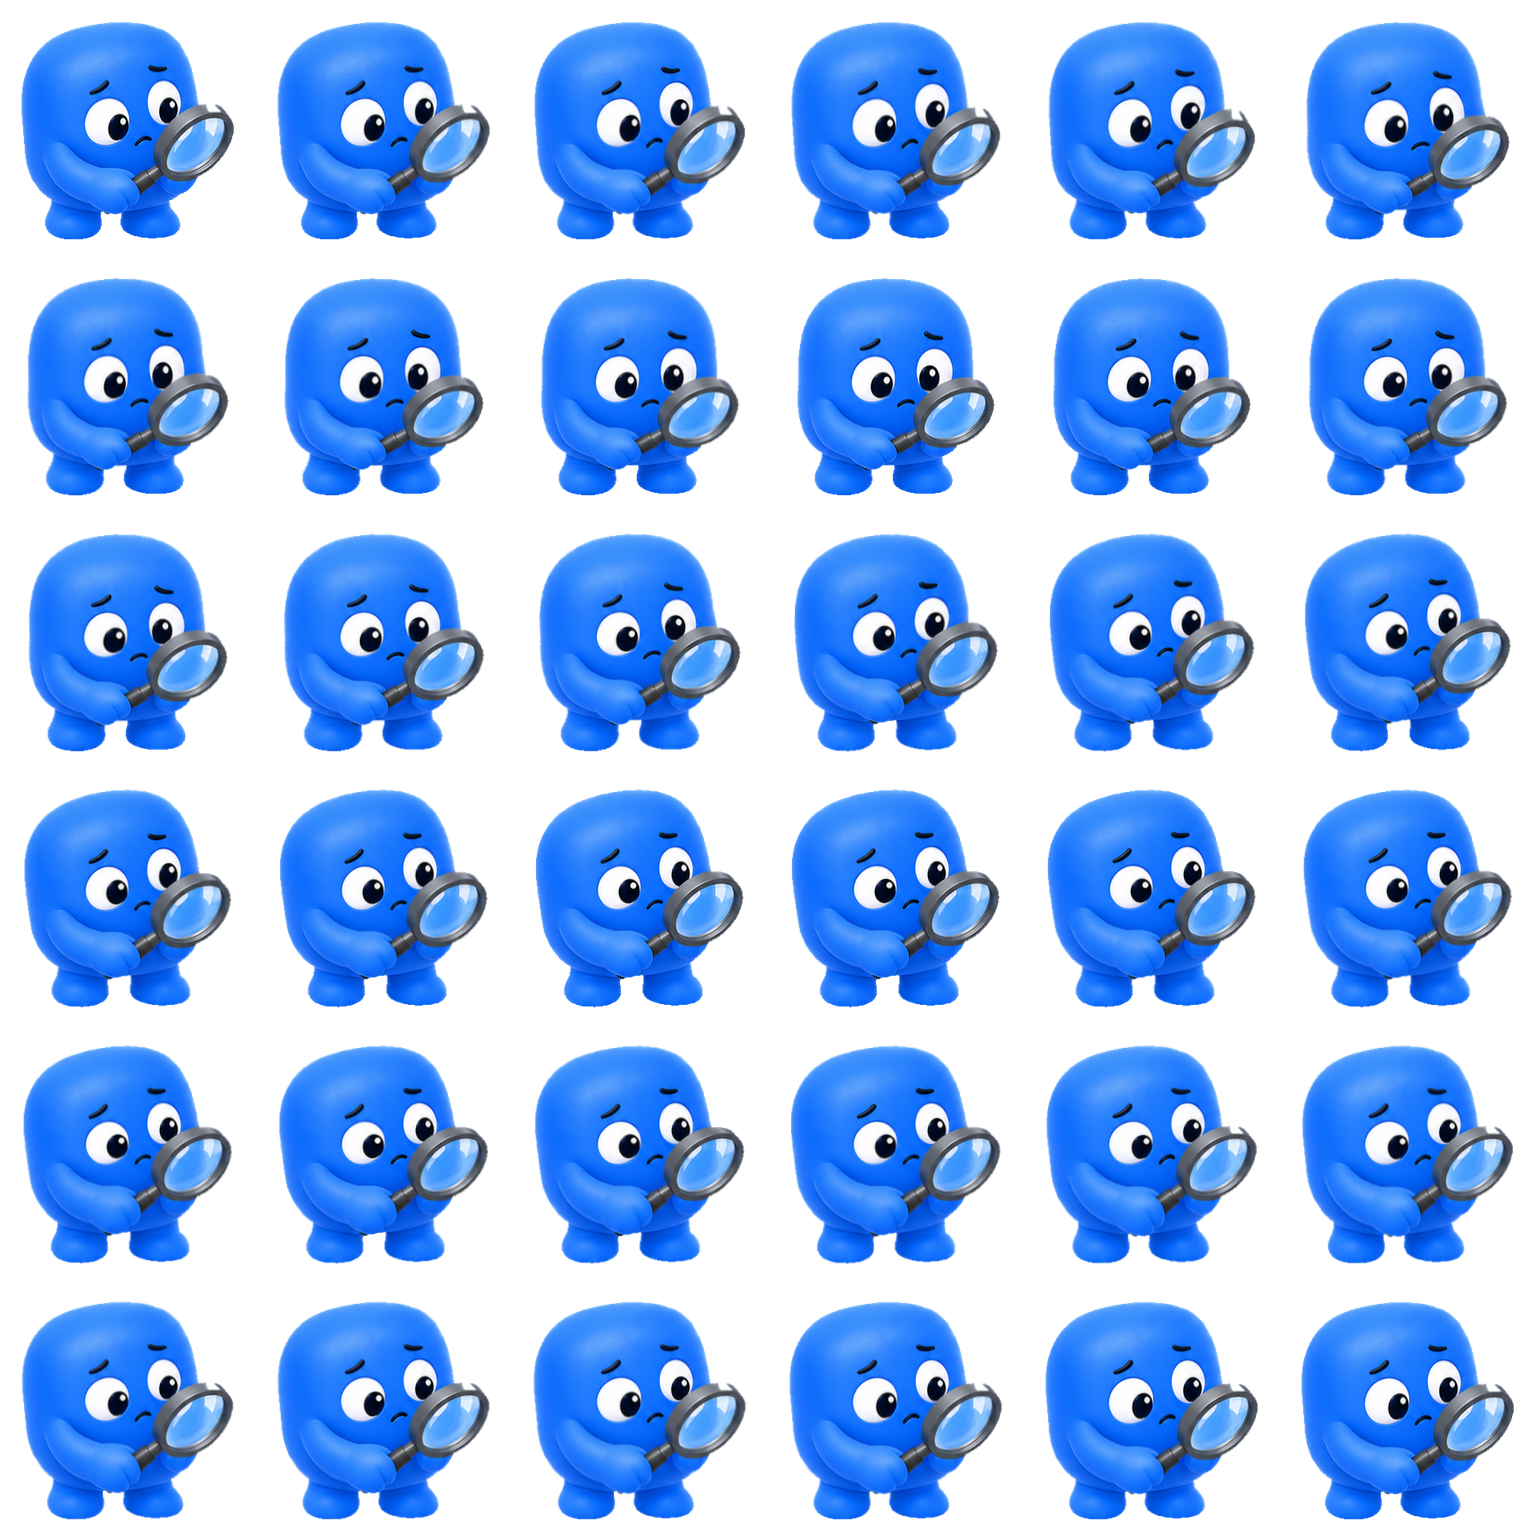
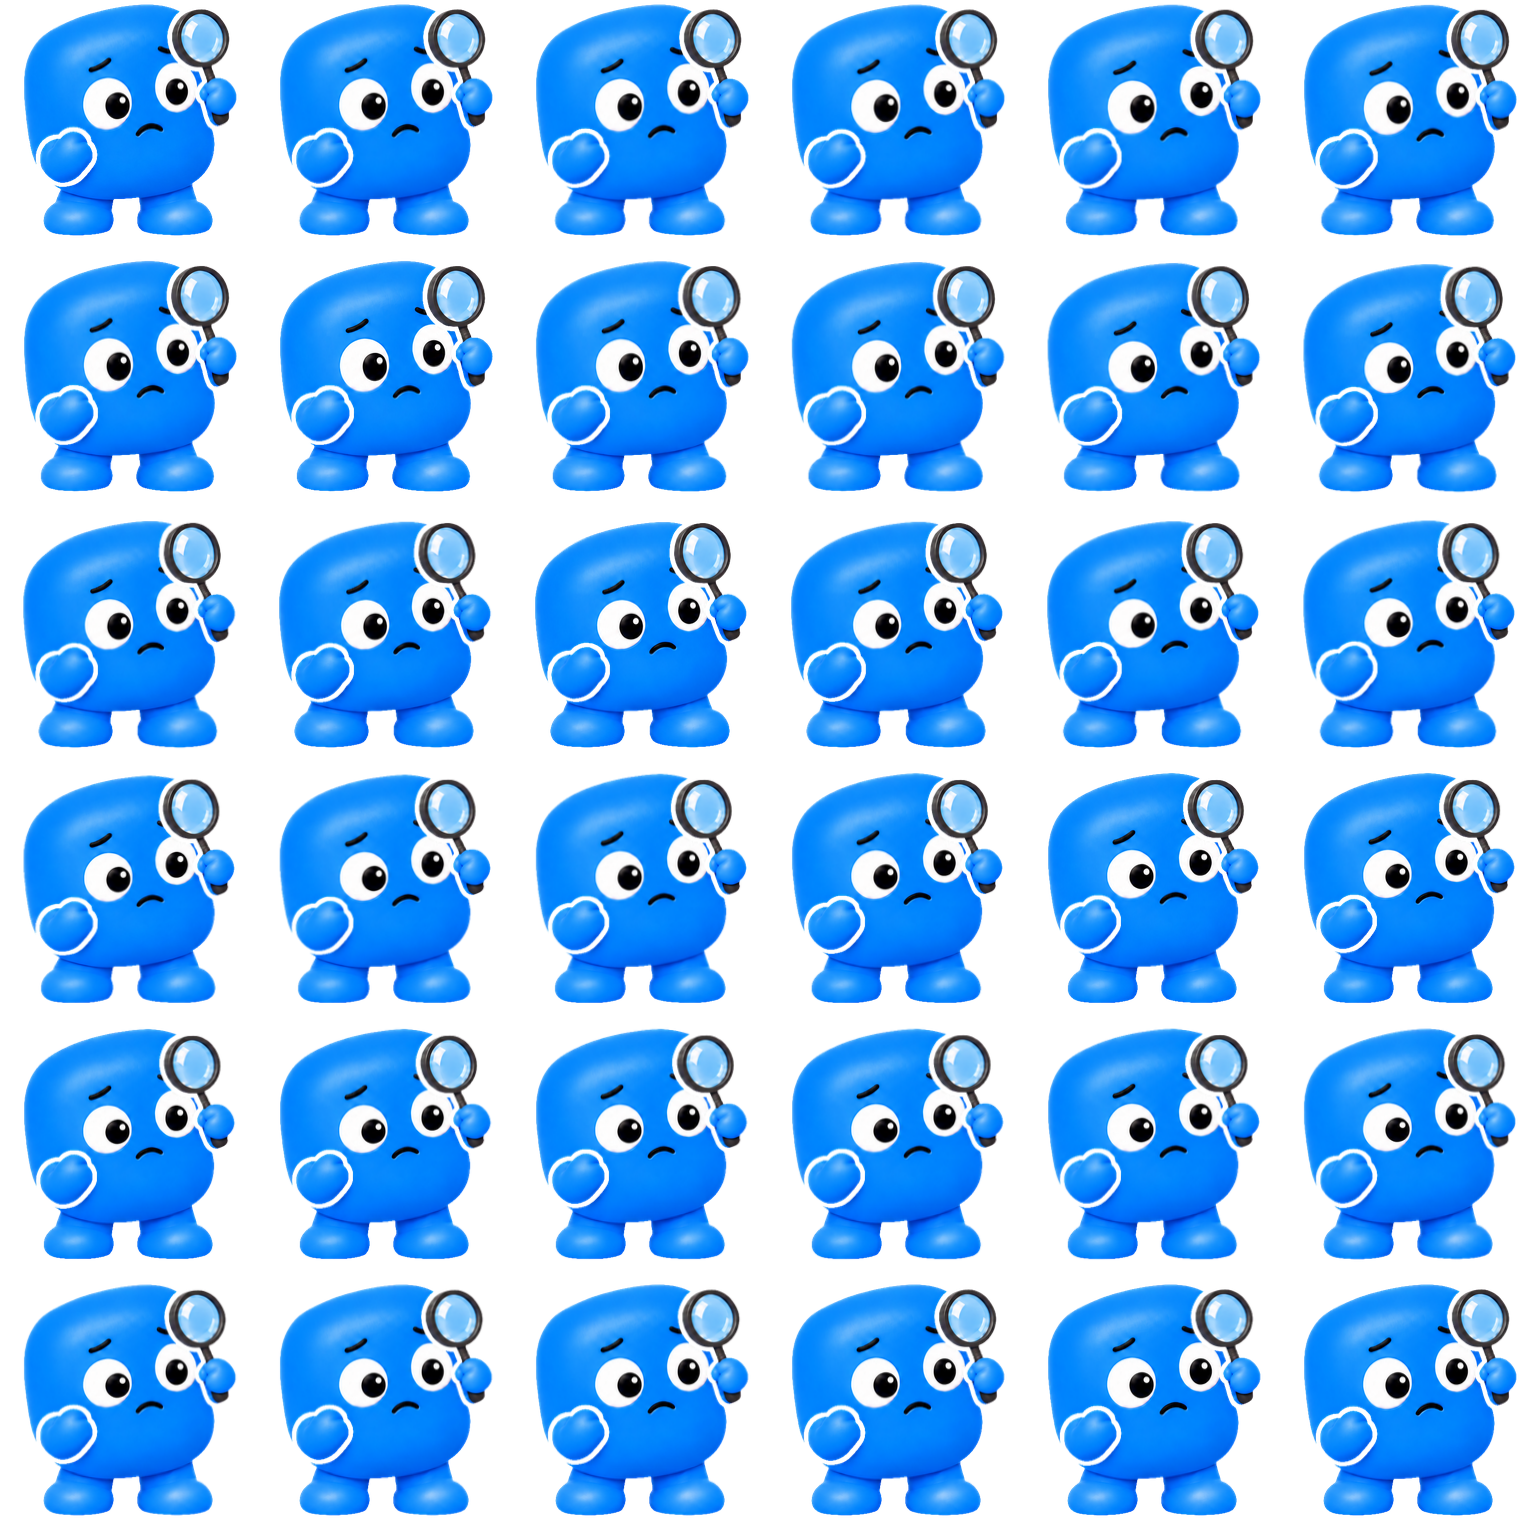
Open the concern loop out with its fourth pose, and stop a cell leaking
The corrected concern sheet measures 1.15 against the 1.4 framing gate, so
concern now builds from its own artwork and a four-pose cycle instead of
the three approved keys. The fourth original pose was excluded because it
changed grip and mouth shape mid-loop; the new sheet holds one expression
throughout, so nothing has to be inferred.

Three poses could cycle, but the loop passed close to itself doing it.
Measured as "how far is each frame from the nearest frame that is not its
own neighbour", in units of one frame-to-frame step:

  before  2.09 steps  (worst 1.09)
  after   2.25 steps  (worst 1.64)

The median barely moves, which is right — three poses were already a
cycle. What the fourth pose buys is the worst case, up by half: the point
where the old loop came nearest to retracing itself.

The sheet also exposed a bug in the crop. The window reaches above the
head and below the feet by whatever the sheet's scale demands, and on a
sheet packed as tightly as this one that is far enough to catch the row
below: the first cell came out with a five-pixel sliver of the second
row's head along its bottom edge, which optical flow then spent the whole
cycle fading in and out. Each crop is now masked to the band its pose was
found in. A pose found in a band lies entirely inside it, so the mask
cannot touch the pose itself — success, scan and greeting rebuild
byte-for-byte identical.

Both new sheets turn out to be bound by height rather than width: the
[…]

diff --git a/scripts/mascot_keys.py b/scripts/mascot_keys.py
@@ -131,10 +131,25 @@ def _crop(keyed, pose, window, cell):
 
     `Image.crop` pads past the sheet's edges with transparency, which is what a
     pose standing near the border needs.
+
+    The window reaches below the feet and above the head by whatever the sheet's
+    scale demands, which on a tightly packed sheet is far enough to catch the
+    row above or below. So the crop is masked to the band the pose was found
+    in: a pose found in a band lies entirely inside it, which makes the mask
+    free of risk to the pose itself and fatal only to a neighbour leaking in.
+    Without it the `concern` sheet puts a five-pixel sliver of the second row's
+    head along the bottom edge of the first row's first cell, and optical flow
+    then spends the whole cycle fading it in and out.
     """
     left = int(round(pose['centre'] - window / 2))
     top = int(round(pose['ground'] + window * (1 - FEET_FRACTION) - window))
     cropped = keyed.crop((left, top, left + window, top + window))
+    above, below = pose['band'][0] - top, pose['band'][1] - top
+    if above > 0 or below < window:
+        alpha = np.asarray(cropped.getchannel('A')).copy()
+        alpha[:max(0, above)] = 0
+        alpha[max(0, min(window, below)):] = 0
+        cropped.putalpha(Image.fromarray(alpha))
     return cropped.resize((cell, cell), Image.Resampling.LANCZOS)
 
 
@@ -185,6 +200,7 @@ def load_sheet(path, cell, expected=None):
                 'centre': centre,
                 'ground': top + ground,
                 'top': top + highest,
+                'band': (top, bottom),
                 'bbox': x1 - x0,
                 'span': (x0, x1),
             })

diff --git a/assets/mascot/3d/README.md b/assets/mascot/3d/README.md
@@ -15,10 +15,10 @@ The opaque source draft and old preview are not referenced by the application.
 Reference: user-provided `original_app_mascot.png`.
 Generated using the built-in image generation tool on 2026-09-10.
 
-## New keyframe sheets: one landed, three pending
+## New keyframe sheets: two landed, two pending
 
-`source/success-keyframes.png` is in use. The other three
-(`scan-`, `greeting-`, `concern-keyframes.png`) are measured and rejected, so
+`source/success-keyframes.png` and `concern-keyframes.png` are in use. The
+other two (`scan-` and `greeting-keyframes.png`) are measured and rejected, so
 those states keep the approved 320px keys until replacements arrive. Each state
 picks its own source at build time, so sheets can land one at a time.
 
@@ -31,13 +31,13 @@ gate; `sheet_ratio()` measures a sheet against it without failing the build.
 
 | sheet | silhouette / torso | in use |
 | --- | --- | --- |
-| approved 320px art | 1.03-1.06 | the three fallbacks |
+| approved 320px art | 1.03-1.06 | the two fallbacks |
 | `success` (corrected) | 1.14 | yes |
-| `concern` | 1.57 | no |
+| `concern` (corrected) | 1.15 | yes |
 | `scan` | 1.53 | no |
 | `greeting` | 1.58 | no |
 
-The three rejected sheets fail the same way the first `success` sheet did: the
+The two rejected sheets fail the same way the first `success` sheet did: the
 arms are extended too far, which both pushes the magnifier out of the cell and
 shrinks the body to about 35% less than every other state once framed so
 nothing clips. What a regeneration needs, beyond the existing brief: **the
@@ -45,7 +45,16 @@ magnifier and both hands stay close to the body, so the full silhouette is no
 wider than about 1.1x the torso**, and the torso fills roughly three quarters
 of the cell, as it does in `source/escalation-keyframes.png`. Pose variety has
 to come from the body leaning, crouching and rising rather than from the arms
-reaching out. The corrected `success` sheet is the worked example.
+reaching out. The corrected `success` and `concern` sheets are the worked
+examples.
+
+Both corrected sheets are nevertheless bound by height rather than by width:
+the raised magnifier reaches further above the head than a window sized to the
+shipping torso would allow, so the window widens to avoid clipping it and the
+character lands at 190-196px rather than 213. That is the right trade — a
+magnifier cut off at the cell edge is worse than a character 9% small — but a
+sheet that keeps the magnifier about 10% lower would render at full size. Worth
+saying in the brief for the two that remain.
 
 `scripts/mascot_keys.py` keys the green, finds each pose by the empty columns
 around it, and crops on the feet rather than on the nominal grid — needed
@@ -82,12 +91,14 @@ that pose on wrap. In the first motion-only revision, scan follows `[0,1,2,3,0]`
 with budgets `[8,7,6,15]`; greeting `[1,2,3,1]` with `[13,11,12]`; concern
 `[0,1,2,0]` with `[9,11,16]`; worried/alarmed `[0,1,2,0]` with `[9,11,16]`.
 Concern's fourth original pose changes grip and mouth shape, so it is excluded.
-Success has since moved to `source/success-keyframes.png` and a genuine
-four-pose cycle, `[0,1,2,3,0]` with `[7,8,8,13]`. It was the one state the
-approved art could not cycle: only two of its four poses shared an
-expression, so `[0,1,0]` with `[12,24]` went out to one pose and came back
-the same way — the bounce this whole upgrade exists to remove. The other
-three states still run the budgets above from the approved keys.
+Success and concern have since moved to their own keyframe sheets and to
+four-pose cycles: `[0,1,2,3,0]` with `[7,8,8,13]` and `[7,7,8,14]`. Success was
+the one state the approved art could not cycle at all — only two of its four
+poses shared an expression, so `[0,1,0]` with `[12,24]` went out to one pose and
+came back the same way, the bounce this whole upgrade exists to remove. Concern
+could cycle on three poses but passed close to itself doing it; the fourth pose
+opens the loop out. Scan and greeting still run the budgets above from the
+approved keys.
 The mirrored return was dropped because replaying every gesture backwards reads
 as a rewind. Smoothstep and a single warped source avoid translucent second arms.
 A premultiplied periodic breathing field offsets head and torso by one eighth of
